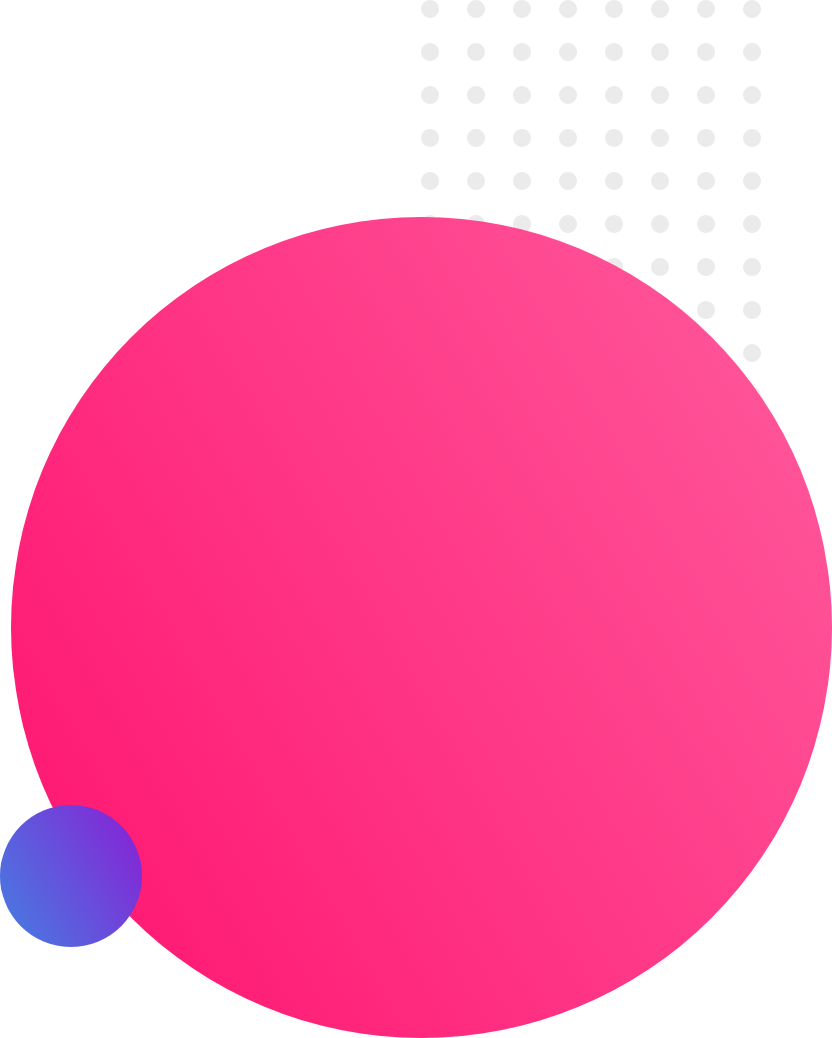
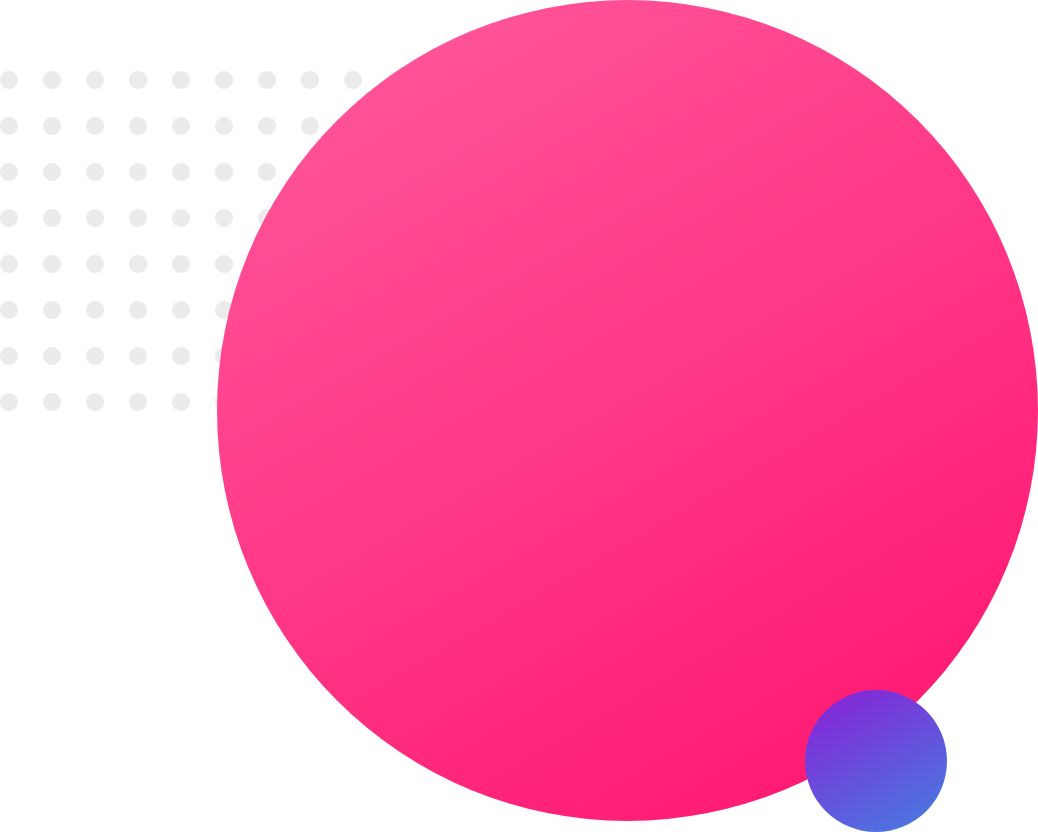
experience

diff --git a/index.html b/index.html
@@ -8,10 +8,10 @@
     <link rel="stylesheet" href="style.css">
 </head>
 <body>
-      <section class="firstone">
+      <section class="top-section" >
       <div  class="half-width" >  
         <h1>Welcome To</h1>
-        <h1> <span class="name-highlight">Ismail</span> Website</h1>  
+        <h1> <span class="orange-highlight">Ismail</span> Website</h1>  
         <h3>World_class Web Dev...</h3>
         <p>If you’re a web developer with lots of projects to showcase, Eric’s personal portfolio can be a good source of inspiration.
 
@@ -22,15 +22,23 @@
         
       </section>
 
-      <section class="reddd">
-        <div class="half-width"><img src="photo/image 9.png" alt=""></div>
-        <div class="half-width">
-          <h1>Dream Big</h1>
+      <section class="dream-area" >
+        <div class="half-width" >
+        <img src="photo/image 9.png" alt="">
+      </div>
+        <div class="half-width" >
+          <h2>Dream Big</h1>
           <h3>Become a web developer</h3>
           <p>I already learned the basic HTML and CSS. I can build any simple Website.I can even teach my teacher how to make simple website. My goal is to build 3 websites and learn advanced topics</p>
           <a class="link-button" target="_blank" href="https://docs.google.com/document/d/1SggF6JGkMcMXIVU72J_p_20oxErPWiaC/edi">DOWNLOAD RESUME</a>
           </div>
            
       </section>
-</body>
+      
+      <section class="experience-area">
+        <h2>Experiences</h2>
+
+      </section>
+      
+    </body>
 </html>

diff --git a/style.css b/style.css
@@ -1,22 +1,26 @@
-body{
+  body{
     margin: 0;
     font-family: 'Roboto', sans-serif;
 font-family: 'Yanone Kaffeesatz', sans-serif;
+} 
+section{
+    height: 500px;
 }
+
 h1{
     font-size: 40px;
 }
 p{
     color: dimgray;
 }
-.name-highlight{
+.orange-highlight{
     color: rgba(123, 23, 10, 0.573);
 } 
 .half-width{
    width: 40%;
     float: left;
-    margin-left: 60px;
-    padding-left: 10px;
+    margin-left: 5%;
+    padding-left: 2%;
 } 
 .half-width img{
     width: 100%;
@@ -28,6 +32,13 @@ p{
     padding: 10px 15px;
     font-weight: 700;
 }
- .firstone{
-    background-color: blue;
- }
+
+ 
+.dream-area{
+    background-image: url(photo/dream-bg.png);
+    background-repeat: no-repeat;
+    background-position: right;
+}
+  
+
+
